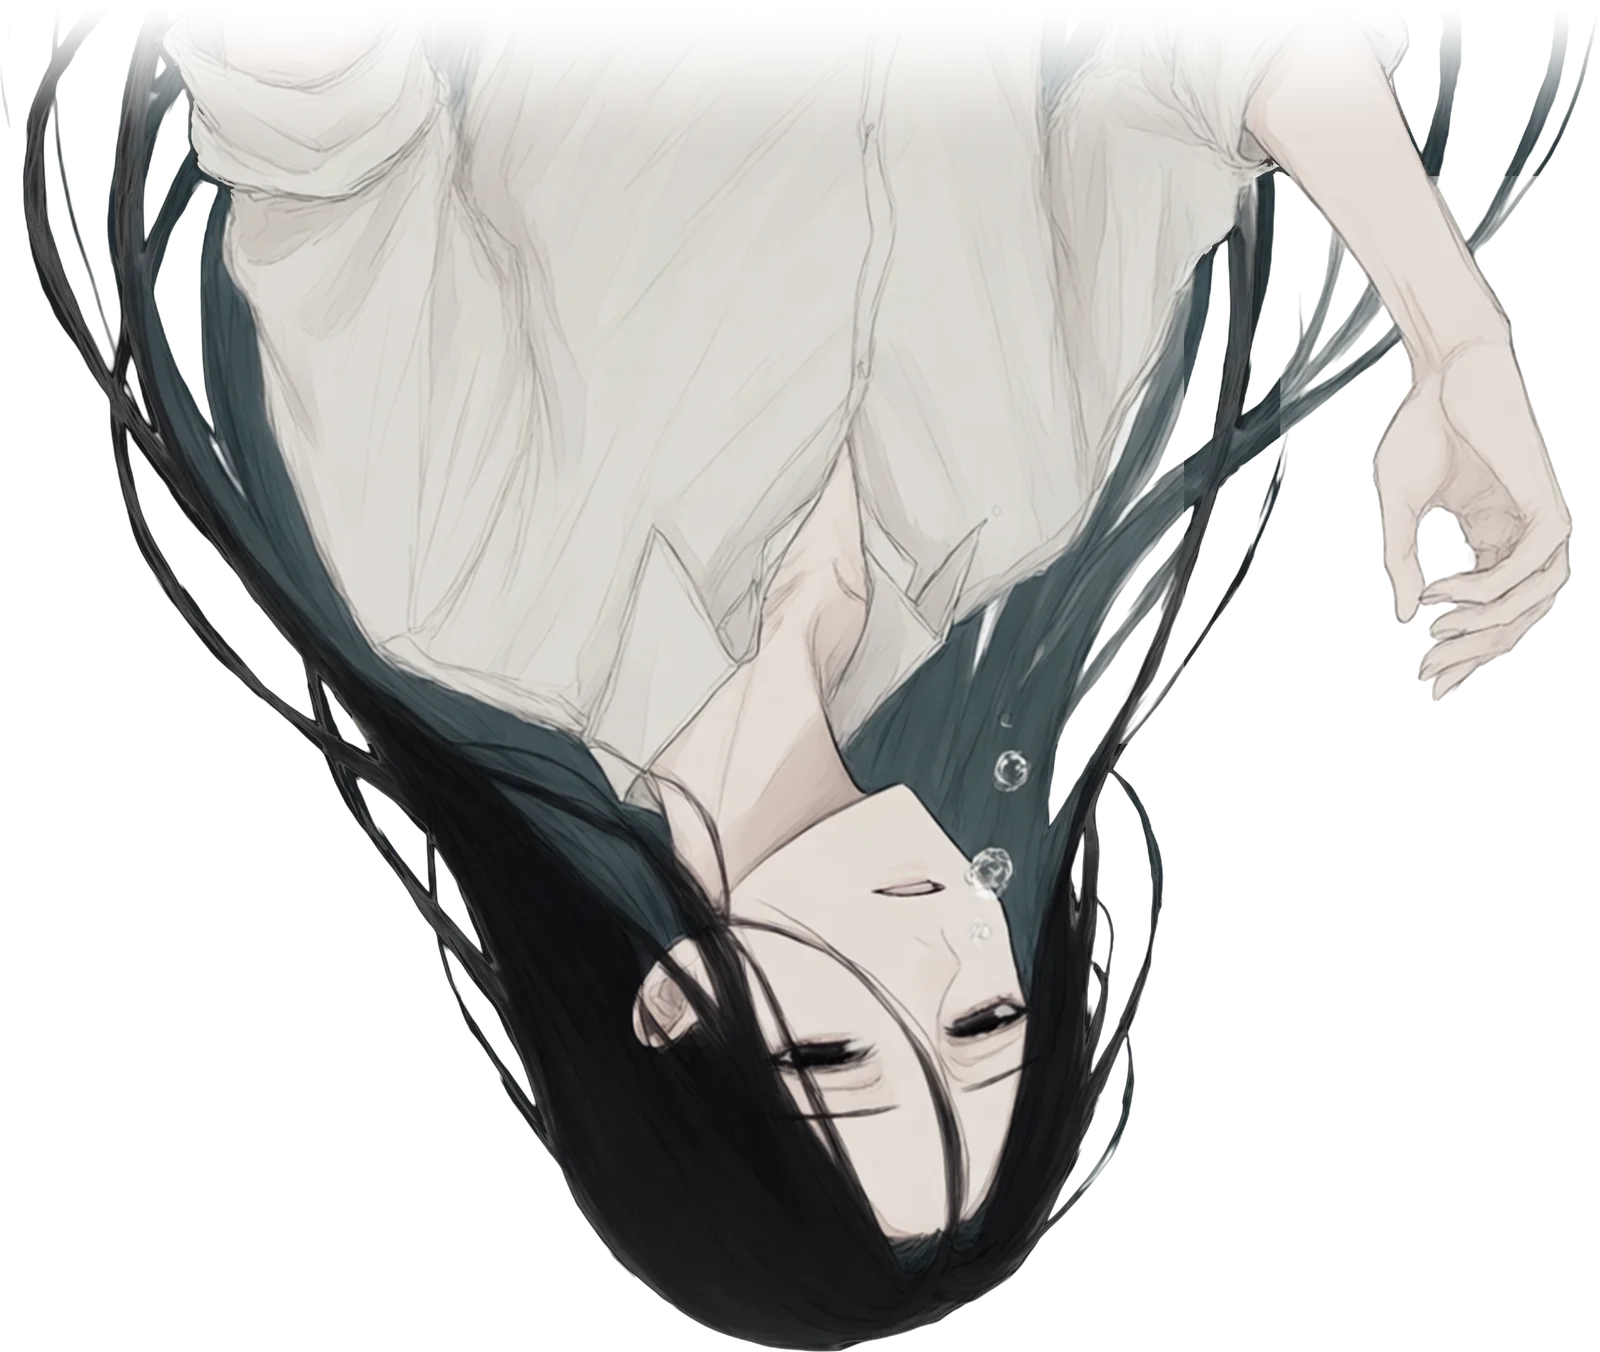
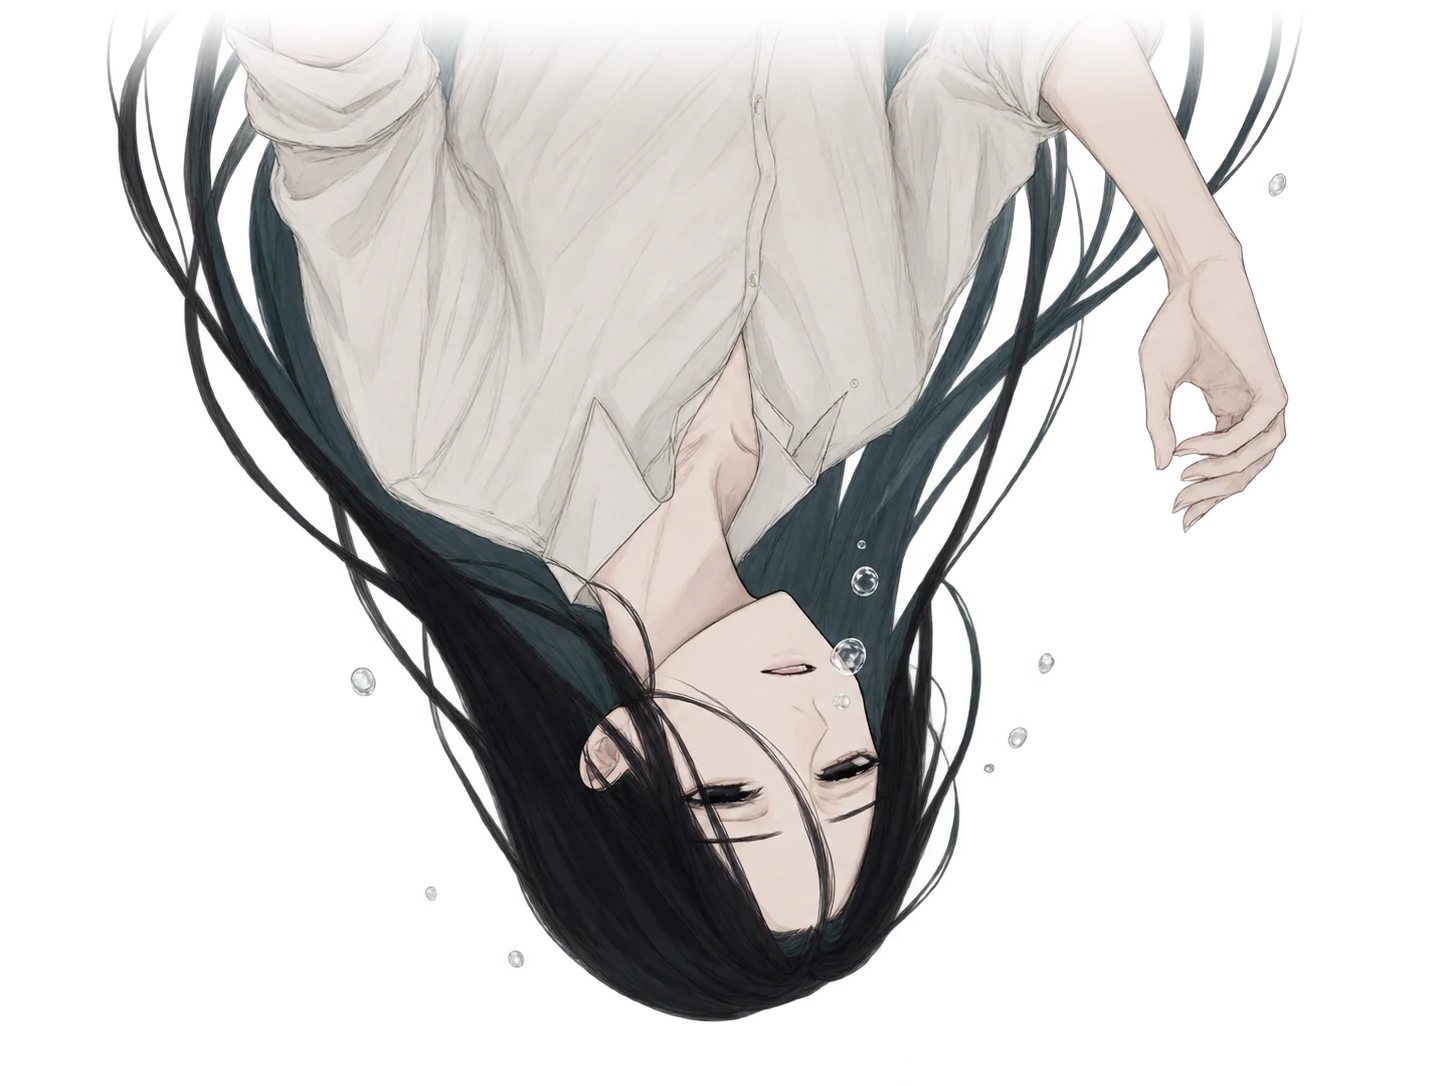
换上 20 张新图

diff --git a/js/config/world.js b/js/config/world.js
@@ -1,1 +1,1 @@
[2 lines of base64/hex data omitted]

diff --git a/js/game.js b/js/game.js
@@ -102,6 +102,8 @@ export function refreshHud() {
 }
 export function setScene(loc = G.s.loc) {
   const b = bgFor(loc, G.s.slot); G.R.bg.src = b.src; G.R.bg.style.filter = b.filter;
+  const ev = G.s.curEvent && G.events.find(e => e.id === G.s.curEvent);   // 事件自带背景（第 40 天黄昏溪岸）
+  if (ev?.bg && hasAsset(`bg/${ev.bg}.webp`)) { G.R.bg.src = A(`bg/${ev.bg}.webp`); G.R.bg.style.filter = 'none'; }
   pickBgm();
 }
 // BGM：缝合、牠、后山 → 不安；夜里和河独处 → 夜；其他 → 日常
